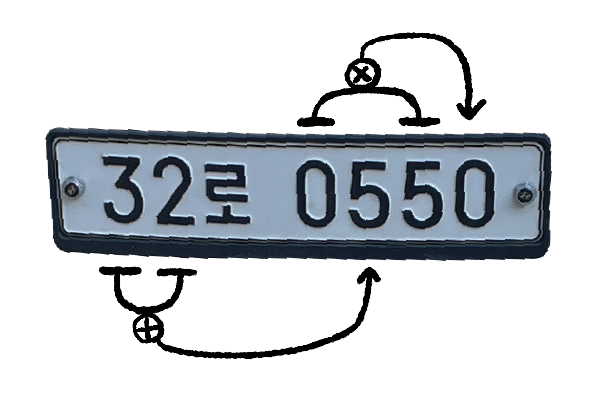
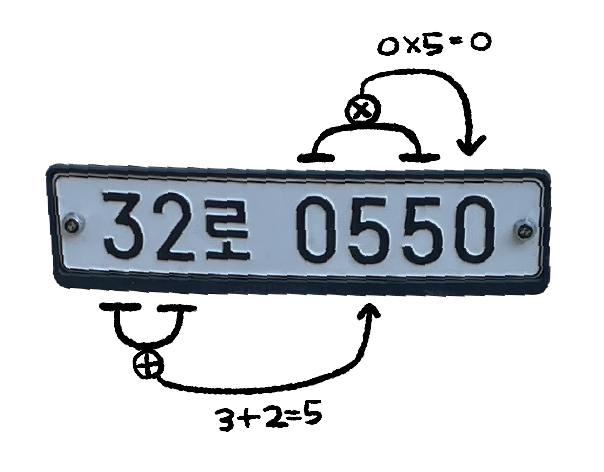
220101 수정사항(애니메이션 등)

Changed region(s): [[0.0596, 0.06, 0.9238, 0.93], [0.8344, 0.45, 0.894, 0.51]]

diff --git a/portfolio/index.html b/portfolio/index.html
@@ -29,10 +29,9 @@
             <img class="plateImg" id="plate09" src="../img/plates/a license plate-09.png">
             <img class="plateImg" id="plate10" src="../img/plates/a license plate-10.png">
             <img class="plateImg" id="plate11" src="../img/plates/a license plate-11.png">
-            <img class="plateImg" id="plate12" src="../img/plates/a license plate-12.png">
             <img class="plateImg" id="plate13" src="../img/plates/a license plate-13.png">
-            <img class="plateImg" id="plate14" src="../img/plates/a license plate-14.png">
-            <img class="plateImg" id="plate15" src="../img/plates/a license plate-15.png">
+            <!-- <img class="plateImg" id="plate14" src="../img/plates/a license plate-14.png"> -->
+            <img class="plateImg" id="plate16" src="../img/plates/a license plate-15.png">
             <img class="plateImg" id="plate17" src="../img/plates/a license plate-17.png">
         </div>
 
@@ -44,18 +43,20 @@
         </div>
     </div>
 
+    <div style="clear: both; height: 50px;"></div>
+
     <div class="container" id="circleDiv"> 
 
         <!-- 왼쪽 원 부분 -->
-        <div class="text-left_container" style="width: 40%; margin-top: 4%">
-            <div class="outCircle">
-                <div class="rotate leftCircle" id="circle1" style="flex: 1">
+        <div class="text-left_container" id="circle_section_1" style="width: 40%;">
+            <div class="outCircle spanScale">
+                <div class="rotate rotatel leftCircle" id="circle1" style="flex: 1">
                 <img id="leftCircle1" src="" class="rotateCircleLeft">
                 </div>
-                <div class="rotate middleCircle" id="circle2" style="flex: 1">
+                <div class="rotate rotatem middleCircle" id="circle2" style="flex: 1">
                 <img id="middleCircle1" src="" class="rotateCircleLeft">
                 </div>
-                <div class="rotate rightCircle" id="circle3" style="flex: 1">
+                <div class="rotate rotater rightCircle" id="circle3" style="flex: 1">
                 <img id="rightCircle1" src="" class="rotateCircleRight">
                 </div>
             </div>
@@ -63,14 +64,14 @@
 
         <!-- 오른쪽 원 부분 -->
         <div class="text-right_container" style="width: 40%;">
-            <div class="outCircle">
-                <div class="rotate leftCircle" id="circle4" style="flex: 1">
+            <div class="outCircle spanScale">
+                <div class="rotate rotatel leftCircle" id="circle4" style="flex: 1">
                 <img id="leftCircle2" src="" class="rotateCircleLeft">
                 </div>
-                <div class="rotate middleCircle" id="circle5" style="flex: 1">
+                <div class="rotate rotatem middleCircle" id="circle5" style="flex: 1">
                 <img id="middleCircle2" src="" class="rotateCircleRight">
                 </div>
-                <div class="rotate rightCircle" id="circle6" style="flex: 1">
+                <div class="rotate rotater rightCircle" id="circle6" style="flex: 1">
                 <img id="rightCircle2" src="" class="rotateCircleRight">
                 </div>
             </div>
@@ -81,154 +82,140 @@
 </body>
 
 <script>
+
     var algorithmDictLeft =  {
-        "plate01": {
-            "a": "0",
-            "b": "1",
-            "symbol": "multiple"
+        'plate01': {
+            'a': '0',
+            'b': '1',
+            'symbol': 'multiple'
         },
-        "plate02": {
-            "a": "3",
-            "b": "6",
-            "symbol": "plus"
+        'plate02': {
+            'a': '3',
+            'b': '6',
+            'symbol': 'plus'
         },
-        "plate03": {
-            "a": "5",
-            "b": "2",
-            "symbol": "plus"
+        'plate03': {
+            'a': '5',
+            'b': '2',
+            'symbol': 'plus'
         },
-        "plate04": {
-            "a": "4",
-            "b": "4",
-            "symbol": "plus"
+        'plate04': {
+            'a': '4',
+            'b': '4',
+            'symbol': 'plus'
         },
-        "plate06": {
-            "a": "4",
-            "b": "7",
-            "symbol": "subtract" 
+        'plate06': {
+            'a': '4',
+            'b': '7',
+            'symbol': 'subtract' 
         }, 
-        "plate07": { 
-            "a": "5", 
-            "b": "2", 
-            "symbol": "plus" 
+        'plate07': { 
+            'a': '5', 
+            'b': '2', 
+            'symbol': 'plus' 
         }, 
-        "plate08": { 
-            "a": "7", 
-            "b": "6",
-            "symbol": "subtract" 
+        'plate08': { 
+            'a': '7', 
+            'b': '6',
+            'symbol': 'subtract' 
         }
-    ,"plate09": { 
-            "a": "3", 
-            "b": "6",
-            "symbol": "plus" 
+      ,'plate09': { 
+            'a': '3', 
+            'b': '6',
+            'symbol': 'plus' 
         }, 
-        "plate10": { 
-            "a": "3", 
-            "b": "2",
-            "symbol": "plus" 
+        'plate10': { 
+            'a': '3', 
+            'b': '2',
+            'symbol': 'plus' 
         }, 
-        "plate11": { 
-            "a": "1", 
-            "b": "0",
-            "symbol": "plus" 
+        'plate11': { 
+            'a': '1', 
+            'b': '0',
+            'symbol': 'plus' 
         }, 
-        "plate12": { 
-            "a": "1", 
-            "b": "4",
-            "symbol": "plus" 
+        'plate13': { 
+            'a': '3', 
+            'b': '2',
+            'symbol': 'plus' 
         }, 
-        "plate13": { 
-            "a": "3", 
-            "b": "2",
-            "symbol": "plus" 
+        'plate16': { 
+            'a': '2', 
+            'b': '4',
+            'symbol': 'plus' 
         }, 
-        "plate14": { 
-            "a": "7", 
-            "b": "4",
-            "symbol": "multiple" 
-        }, 
-        "plate16": { 
-            "a": "2", 
-            "b": "4",
-            "symbol": "plus" 
-        }, 
-        "plate17": { 
-            "a": "9", 
-            "b": "3",
-            "symbol": "subtract" 
+        'plate17': { 
+            'a': '9', 
+            'b': '3',
+            'symbol': 'subtract' 
         }
     }
 
-    var algorithmDictRight = {
-        "plate01": { 
-            "a": "4", 
-            "b": "5", 
-            "symbol": "plus" 
+    var algorithmDictRight = { 
+        'plate01': { 
+            'a': '4', 
+            'b': '5', 
+            'symbol': 'plus' 
         }, 
-        "plate02": { 
-            "a": "3", 
-            "b": "3", 
-            "symbol": "multiple" 
+        'plate02': { 
+            'a': '3', 
+            'b': '3', 
+            'symbol': 'multiple' 
         }, 
-        "plate03": { 
-            "a": "1", 
-            "b": "5", 
-            "symbol": "plus" 
+        'plate03': { 
+            'a': '1', 
+            'b': '5', 
+            'symbol': 'plus' 
         }, 
-        "plate04": { 
-            "a": "9", 
-            "b": "3", 
-            "symbol": "divition" 
+        'plate04': { 
+            'a': '9', 
+            'b': '3', 
+            'symbol': 'divition' 
         }, 
-        "plate06": { 
-            "a": "8", 
-            "b": "0",
-            "symbol": "plus" 
+        'plate06': { 
+            'a': '8', 
+            'b': '0',
+            'symbol': 'plus' 
         },  
-        "plate07": {  
-            "a": "1",  
-            "b": "5", 
-            "symbol": "plus" 
+        'plate07': {  
+            'a': '1',  
+            'b': '5', 
+            'symbol': 'plus' 
         },  
-        "plate08": {  
-            "a": "0",  
-            "b": "0",
-            "symbol": "multiple" 
+        'plate08': {  
+            'a': '0',  
+            'b': '0',
+            'symbol': 'multiple' 
         }
-      ,"plate09": {  
-            "a": "1",  
-            "b": "1", 
-            "symbol": "plus" 
+      ,'plate09': {  
+            'a': '1',  
+            'b': '1', 
+            'symbol': 'plus' 
         },  
-        "plate10": {  
-            "a": "0",  
-            "b": "5", 
-            "symbol": "multiple"  
+        'plate10': {  
+            'a': '0',  
+            'b': '5', 
+            'symbol': 'multiple'  
         },  
-        "plate11": {  
-            "a": "7",  
-            "b": "2", 
-            "symbol": "subtract"  
+        'plate11': {  
+            'a': '7',  
+            'b': '2', 
+            'symbol': 'subtract'  
+        }, 
+        'plate13': {  
+            'a': '4',  
+            'b': '1', 
+            'symbol': 'plus'  
         },  
-        "plate12": {  
-            "a": "1",  
-            "b": "6", 
-            "symbol": "plus"  
+        'plate16': {  
+            'a': '0',  
+            'b': '6', 
+            'symbol': 'plus'  
         },  
-        "plate13": {  
-            "a": "4",  
-            "b": "1", 
-            "symbol": "plus"  
-        },  
-        "plate16": {  
-            "a": "0",  
-            "b": "6", 
-            "symbol": "plus"  
-        },  
-        "plate17": {  
-            "a": "9",  
-            "b": "3", 
-            "symbol": "divition"  
+        'plate17': {  
+            'a': '9',  
+            'b': '3', 
+            'symbol': 'divition'  
         }
     }
 
@@ -247,24 +234,41 @@
         })
       .fadeIn(400);
 
-     // 왼쪽 3개 원 이미지를 불러온다
-      $("#leftCircle1").attr("src", "../img/a/" + algorithmInfoLeft["a"] + ".png")
-      $("#middleCircle1").attr("src", "../img/symbol/" + algorithmInfoLeft["symbol"] + ".png")
-      $("#rightCircle1").attr("src", "../img/b2/" + algorithmInfoLeft["b"] + ".png")
+        // 이미 한 번 plate를 눌러 원들을 보는 상태에서 plate를 또 눌렀을 때, 초기화
+        $(".outCircle").removeClass("spanScale")
+        $(".outCircle").width()
 
-      // 오른쪽 3개 원 이미지를 불러온다
-      $("#leftCircle2").attr("src", "../img/a/" + algorithmInfoRight["a"] + ".png")
-      $("#middleCircle2").attr("src", "../img/symbol/" + algorithmInfoRight["symbol"] + ".png")
-      $("#rightCircle2").attr("src", "../img/b2/" + algorithmInfoRight["b"] + ".png")
+        $(".rotate").removeClass("leftCircle")
+        $(".rotate").removeClass("middleCircle")
+        $(".rotate").removeClass("rightCircle")
 
-     // 원이 합쳐지게 한다
-      $(".rotate").css("-webkit-animation-play-state", "running")    
+        $(".rotate").width()
 
-      setTimeout(function() {
-          
-        $(".rotateCircleLeft").css("-webkit-animation-play-state", "running")
-        $(".rotateCircleRight").css("-webkit-animation-play-state", "running")
-      },3000)
+        $(".rotatel").addClass("leftCircle")
+        $(".rotatem").addClass("middleCircle")
+        $(".rotater").addClass("rightCircle")
+
+        // 왼쪽 3개 원 이미지를 불러온다
+        $("#leftCircle1").attr("src", "../img/a/" + algorithmInfoLeft["a"] + ".png")
+        $("#middleCircle1").attr("src", "../img/symbol/" + algorithmInfoLeft["symbol"] + ".png")
+        $("#rightCircle1").attr("src", "../img/b2/" + algorithmInfoLeft["b"] + ".png")
+
+        // 오른쪽 3개 원 이미지를 불러온다
+        $("#leftCircle2").attr("src", "../img/a/" + algorithmInfoRight["a"] + ".png")
+        $("#middleCircle2").attr("src", "../img/symbol/" + algorithmInfoRight["symbol"] + ".png")
+        $("#rightCircle2").attr("src", "../img/b2/" + algorithmInfoRight["b"] + ".png")
+
+        //  원이 합쳐지게 한다
+        $(".rotate").css("-webkit-animation-play-state", "running")
+
+        // 원 크기를 키우고 돌게 한다
+        setTimeout(function() {
+            $(".outCircle").addClass("spanScale")
+            $(".spanScale").css("-webkit-animation-play-state", "running")
+
+            $(".rotateCircleLeft").css("-webkit-animation-play-state", "running")
+            $(".rotateCircleRight").css("-webkit-animation-play-state", "running")
+        },3000)
 
       
       

diff --git a/css/style.css b/css/style.css
@@ -39,6 +39,10 @@
   -webkit-animation: middleCircle 3s 1 ease-in-out forwards paused;
 }
 
+.spanScale {
+  -webkit-animation: spanScale 3s 1 forwards paused;
+}
+
 .rotateCircleLeft {
   -webkit-animation: rotateCircleLeft 8s infinite forwards paused;
 }
@@ -71,6 +75,11 @@
 @-webkit-keyframes middleCircle {
   0% {-webkit-transform: translateY(0%)}
   100% {-webkit-transform: translateY(0%)}
+}
+
+@-webkit-keyframes spanScale {
+  0% {}
+  100% {-webkit-transform: scale(2.3);}
 }
 
 @-webkit-keyframes rotateCircleLeft {
